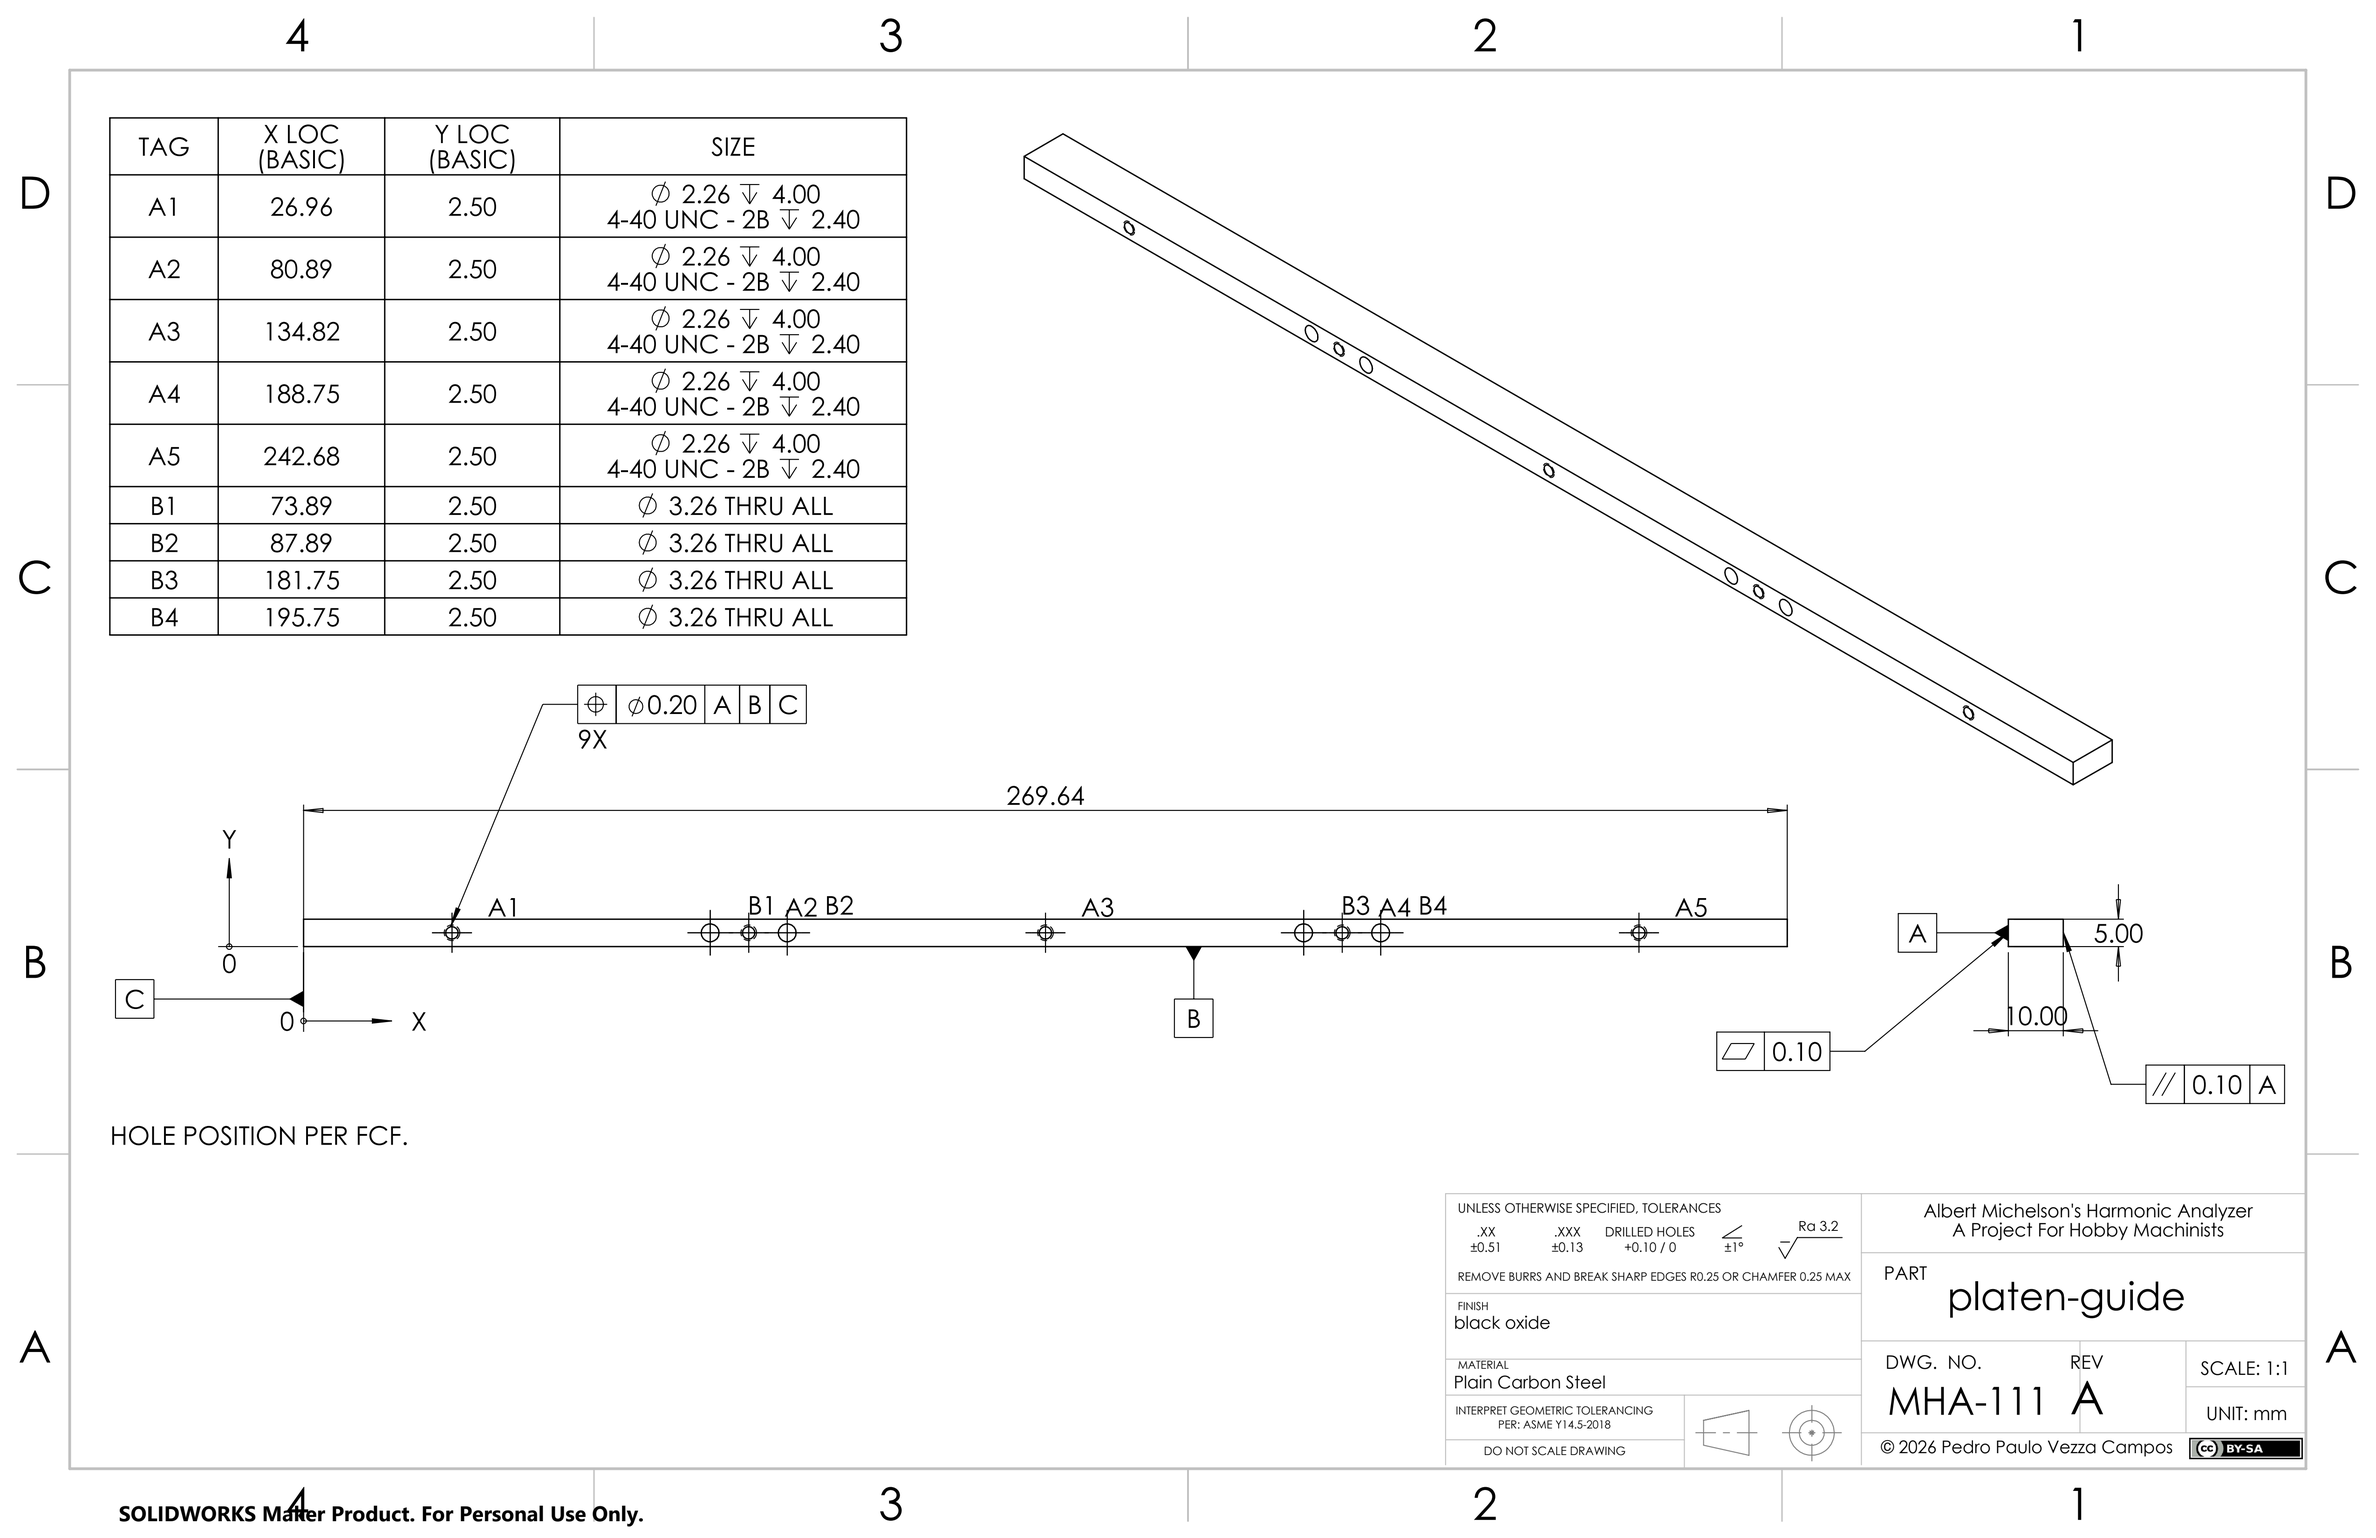
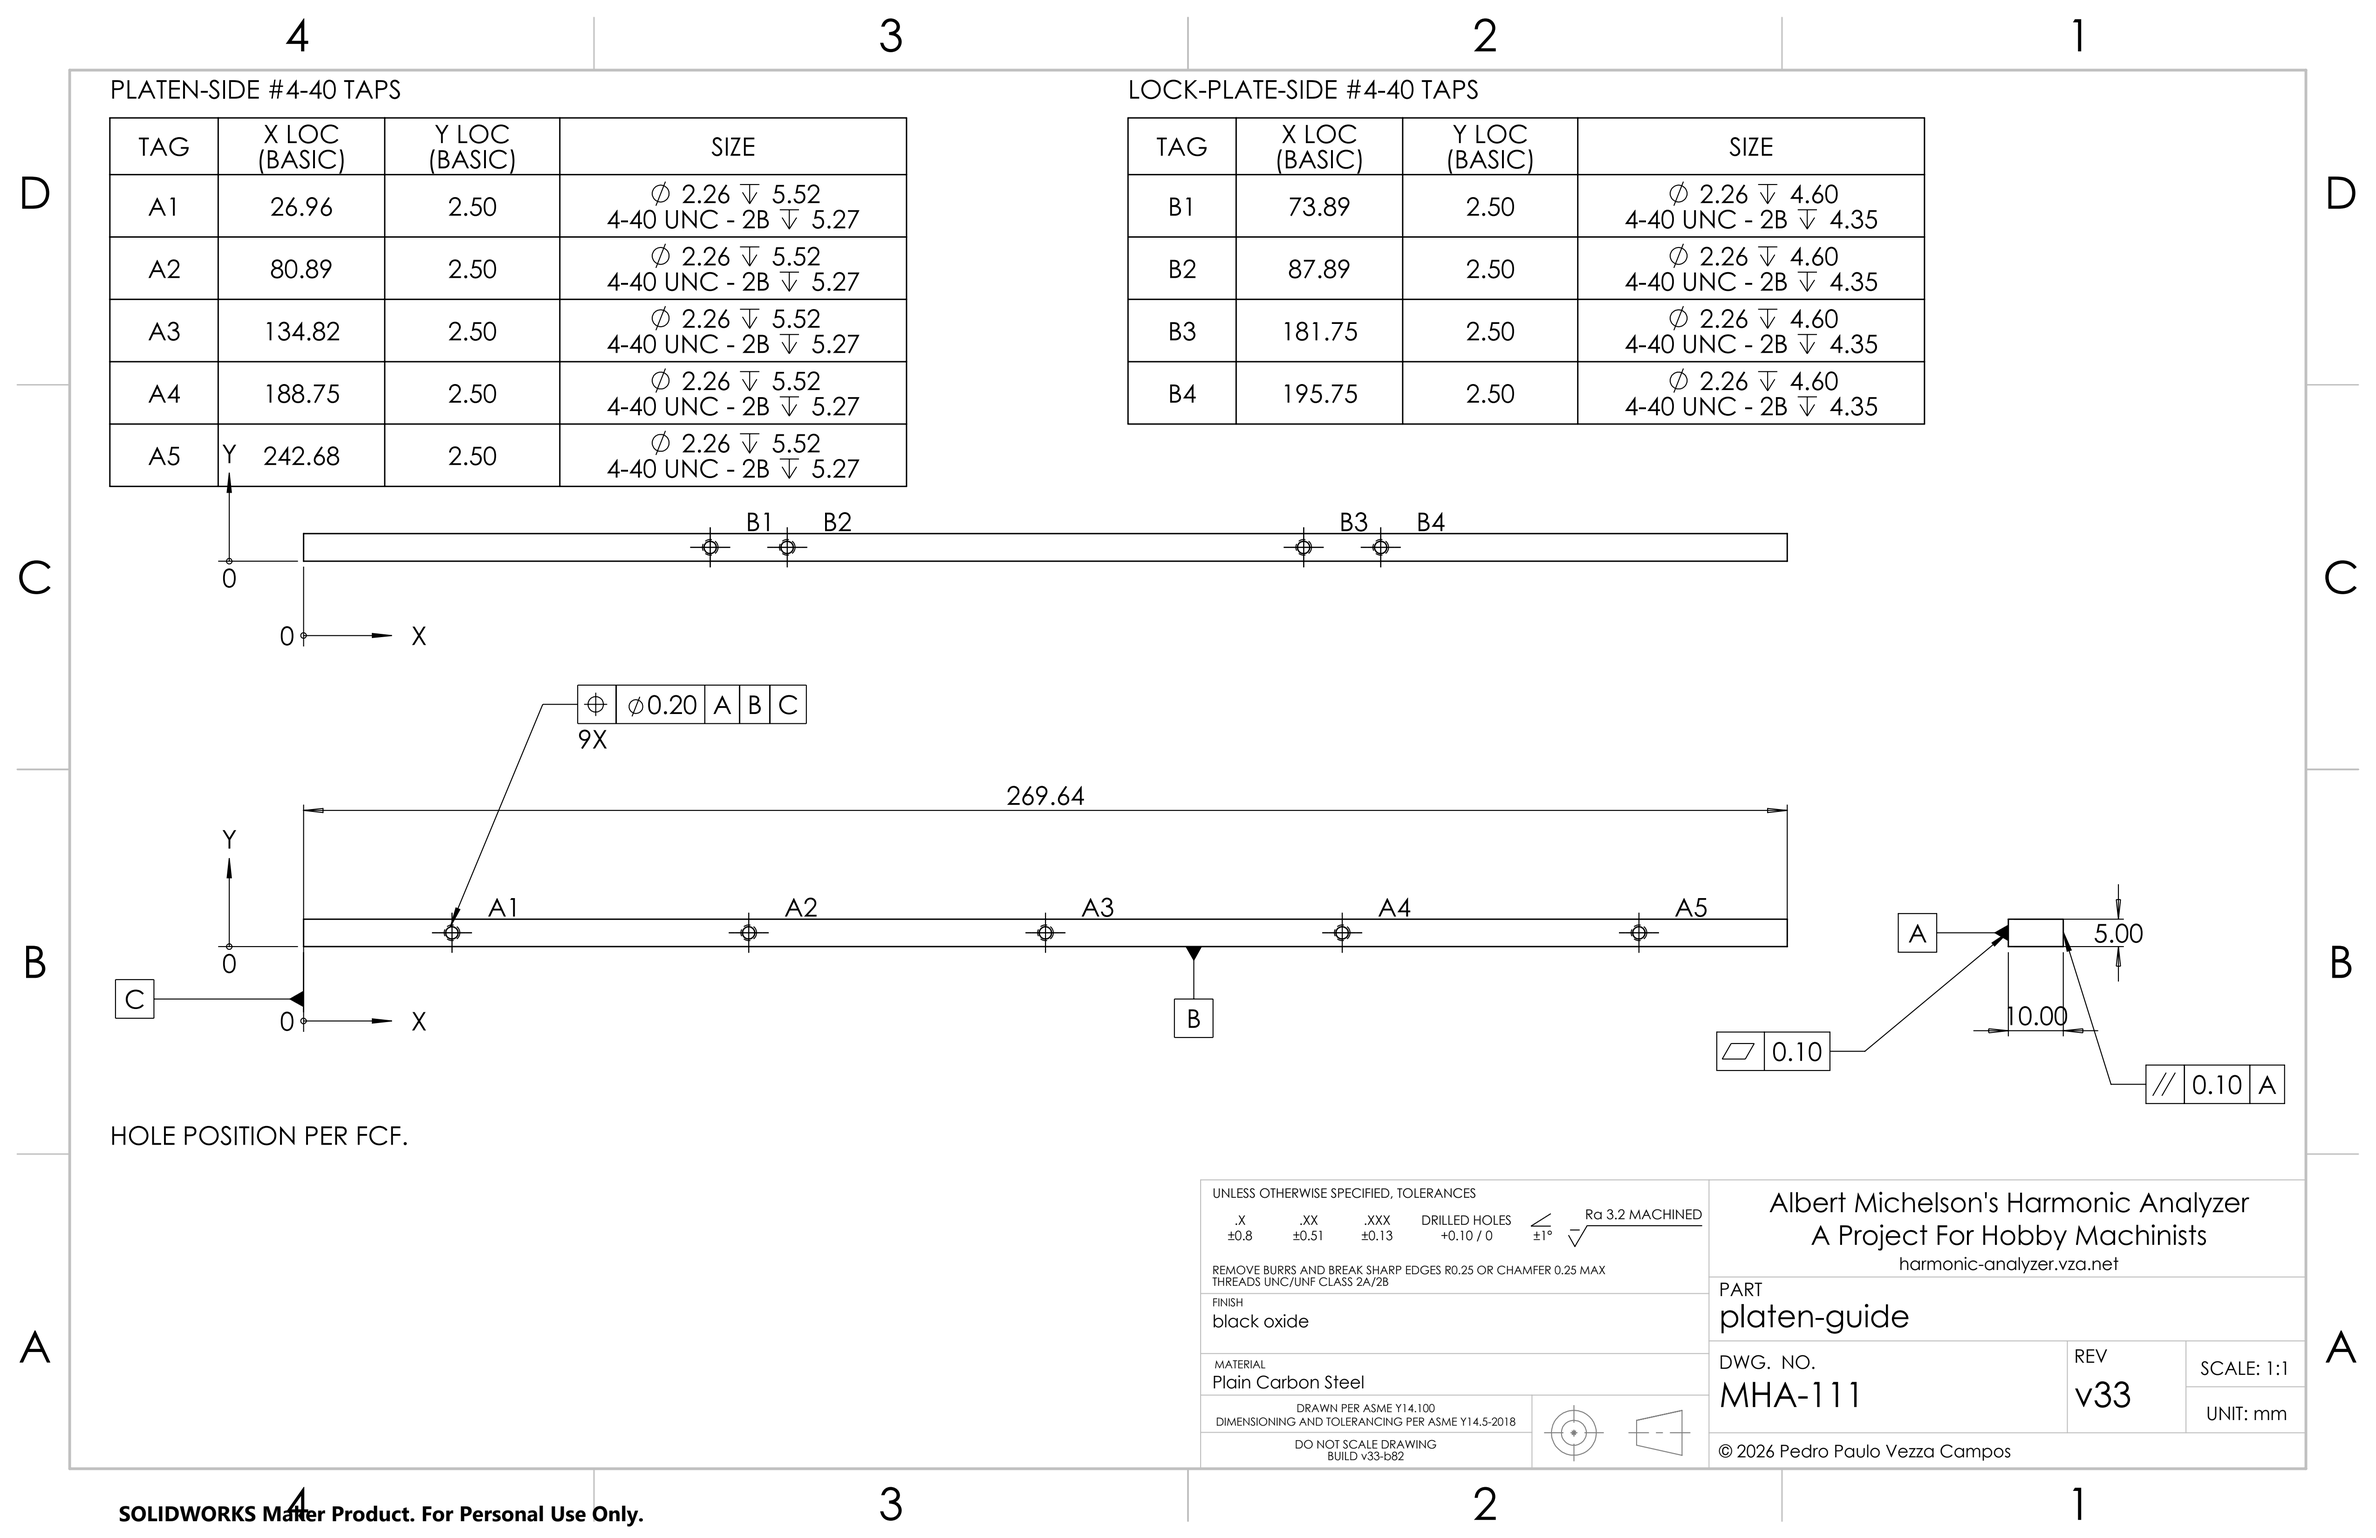
docs: refresh README drawing sheets
The README still showed pre-v33 platen-guide and rocker-arm-support sheets because trim_renders.py refreshed only assembly images. Copy the two generated full-sheet drawing renders byte-for-byte during the same explicit refresh workflow and document that contract. Verified both tracked files match cad/out/png exactly, visually inspected both v33 sheets, ran Ruff, and checked the diff.

diff --git a/cad/scripts/trim_renders.py b/cad/scripts/trim_renders.py
@@ -1,20 +1,21 @@
-"""Trim background margins from assembly renders into README copies.
+"""Refresh tracked README images from the latest generated render output.
 
-Run this explicitly after a model change to refresh the committed
-``cad/docs/images`` README renders from the latest ``cad/out/png`` build output,
-then commit the result::
+Run this explicitly after a model or drawing change to refresh
+``cad/docs/images`` from the latest ``cad/out/png`` build output, then commit
+the result::
 
     uv run python cad/scripts/trim_renders.py
 
-Decoupled from the build on purpose: ``save_assembly_and_images`` no longer
-writes ``cad/docs/images``, so a normal build/release never dirties a tracked file
-(which would block ``doit release``'s clean-tree preflight). The crop is
-deterministic, so re-running on unchanged renders is a no-op.
+Decoupled from the build on purpose: normal build and release tasks never write
+tracked files, which would dirty the tree and fail ``doit release``'s clean-tree
+preflight. Assembly renders are cropped deterministically; drawing sheets are
+copied byte-for-byte.
 """
 
 from __future__ import annotations
 
 import sys
+from shutil import copyfile
 from pathlib import Path
 
 from PIL import Image, ImageChops
@@ -37,6 +38,11 @@ README_RENDERS = {
     "magnifier": "magnifier.png",
     "pen": "pen.png",
     "paper-drive": "paper-drive.png",
+}
+
+README_DRAWINGS = {
+    "rocker-arm-support": "rocker-arm-support-drawing.png",
+    "platen-guide": "platen-guide-drawing.png",
 }
 
 
@@ -72,6 +78,18 @@ def trim_readme_render(asm_name: str) -> str | None:
     return trim(src, DOCS_IMAGES / docs_name)
 
 
+def copy_readme_drawing(drawing_name: str, docs_name: str) -> str:
+    """Copy a required generated drawing sheet into the tracked README images."""
+    src = OUT_PNG / f"{drawing_name}_drawing.png"
+    if not src.exists():
+        raise FileNotFoundError(f"required README drawing render is missing: {src}")
+    dst = DOCS_IMAGES / docs_name
+    copyfile(src, dst)
+    return f"{dst.relative_to(ROOT)}: copied {src.relative_to(ROOT)}"
+
+
 if __name__ == "__main__":
     for asm in README_RENDERS:
         _telemetry.info(trim_readme_render(asm) or f"skip {asm} (no isometric render)")
+    for drawing, docs_name in README_DRAWINGS.items():
+        _telemetry.info(copy_readme_drawing(drawing, docs_name))

diff --git a/cad/docs/images/README.md b/cad/docs/images/README.md
@@ -17,6 +17,12 @@ Deliberately not wired into the build, because writing a tracked file during a
 build would dirty the tree and fail `doit release`'s clean-tree preflight. The
 crop is deterministic, so re-running it on unchanged renders changes nothing.
 
+## Drawing sheets (`rocker-arm-support-drawing.png`, `platen-guide-drawing.png`)
+
+The same refresh command copies the current full-sheet drawing renders from
+`cad/out/png/` byte-for-byte. Keep this mapping in `trim_renders.py`; otherwise
+the README can silently retain a drawing from an older title-block revision.
+
 ## The matched pair: `real-machine-display-case.jpg` + `cad-model-display-pose.png`
 
 The README shows the surviving machine next to the CAD model in the same pose.
